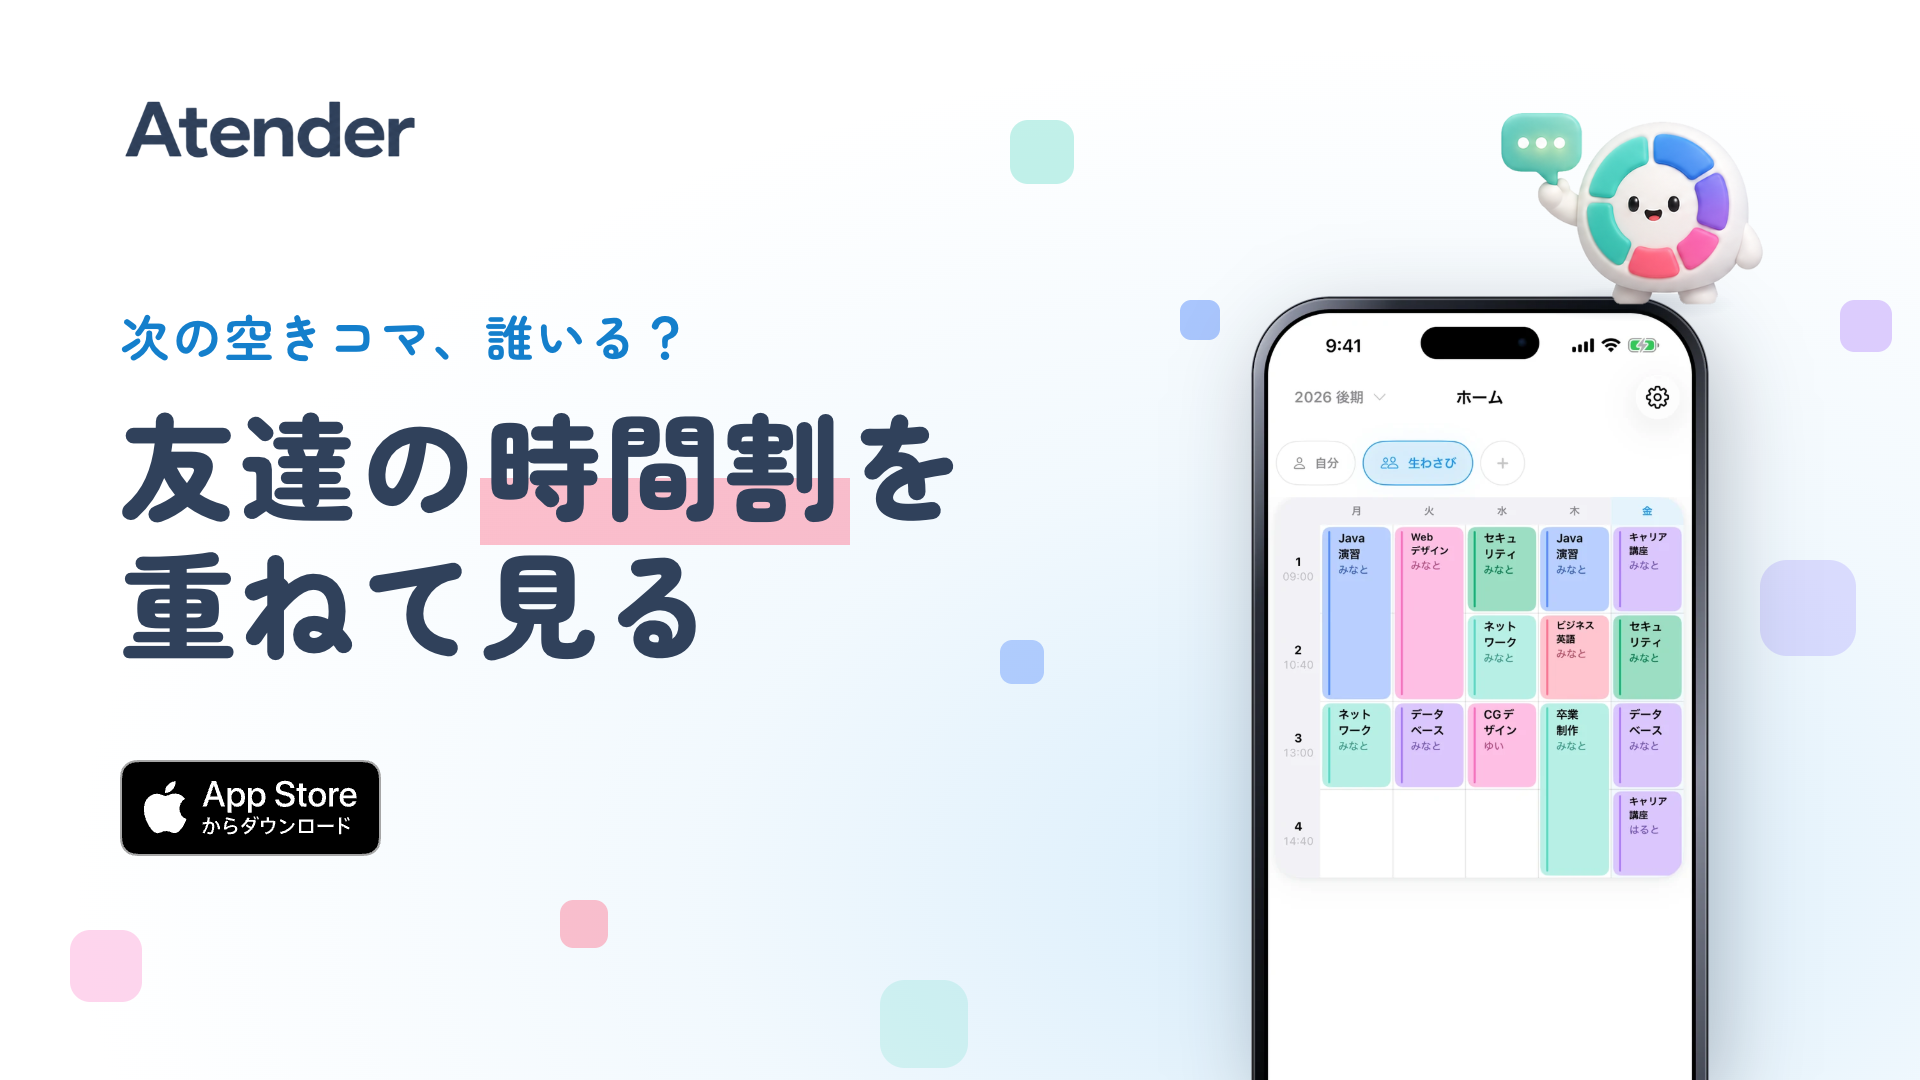
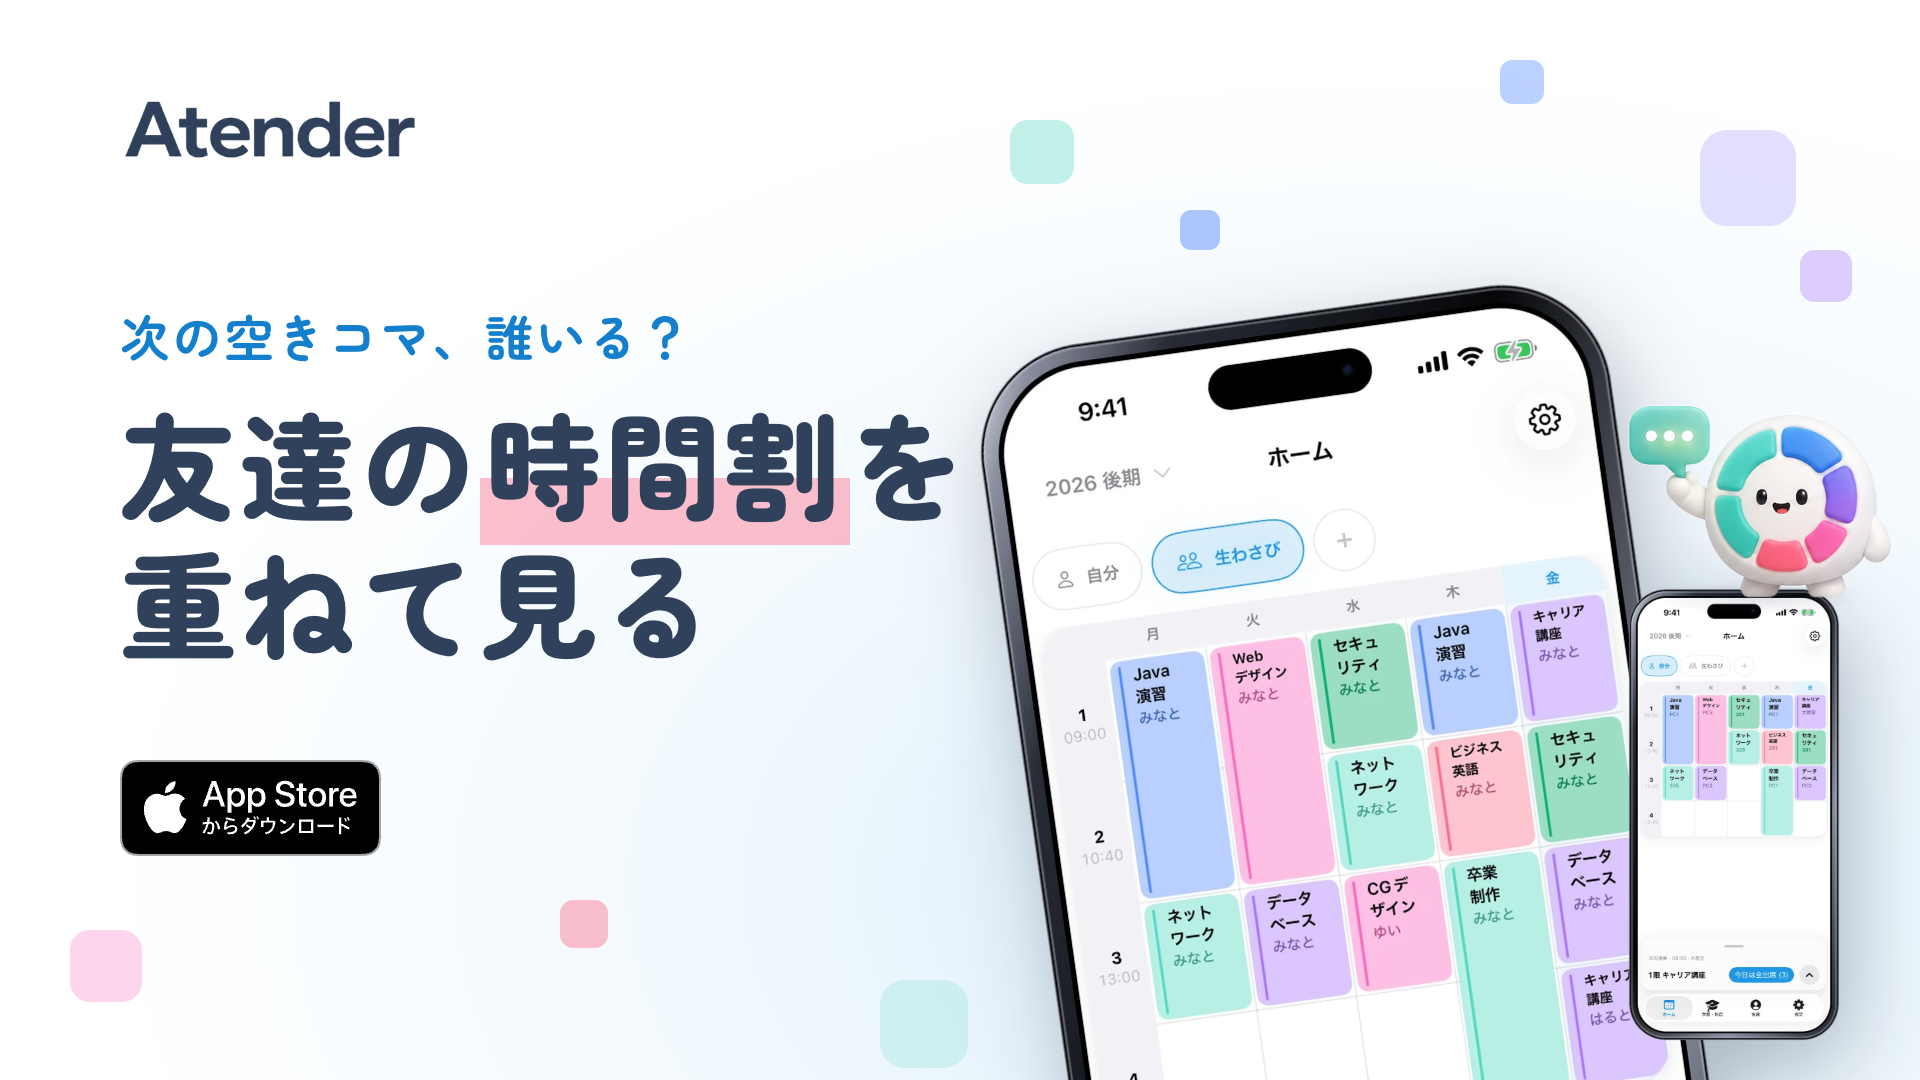
SNS 画像: friends 版を hero と同じ斜め配置にする (大端末 = ルーム rotate -8°、小端末 = 自分のホーム)
Claude-Session: https://claude.ai/code/session_01NbTxgwUdvj38hk2ZKZU4pA

Changed region(s): [[0.5, 0.0306, 1.0, 1.0], [0.5938, 0.1833, 0.6562, 0.2444], [0.5625, 0.3667, 0.5938, 0.3972]]

diff --git a/mocks/social/index.html b/mocks/social/index.html
@@ -28,6 +28,8 @@ h1 { margin: 0; font-size: 116px; line-height: 1.2; font-weight: 900; letter-spa
 em.hl { font-style: normal; background: linear-gradient(transparent 60%, color-mix(in srgb, var(--hl) 45%, transparent) 60%); padding: 0 .04em; }
 .store-badge { position: absolute; left: 120px; top: 760px; height: 96px; width: auto; }
 .phones { position: absolute; right: 80px; bottom: 0; width: 860px; height: auto; z-index: 2; filter: drop-shadow(11px 27px 42px var(--phone-shadow)); }
+.phonepair { position: absolute; inset: 0; z-index: 2; filter: drop-shadow(11px 27px 42px var(--phone-shadow)); }
+.phonepair img { position: absolute; height: auto; }
 .mascot { position: absolute; z-index: 4; height: auto; }
 .mascot-shadow { position: absolute; z-index: 3; border-radius: 50%; background: radial-gradient(ellipse at center, rgba(48, 65, 91, 0.16), rgba(48, 65, 91, 0) 70%); }
 .shape { position: absolute; z-index: 0; width: var(--size); height: var(--size); border-radius: 28%; background: var(--shape-color); opacity: calc(var(--alpha) * var(--shape-alpha-k)); }
@@ -58,14 +60,21 @@ const VARIANTS = {
     shapes: [[1010, 120, 64, .18], [1180, 210, 40, .24], [1700, 130, 96, .12], [1800, 250, 52, .18],
       [70, 930, 72, .14], [560, 900, 48, .22], [880, 980, 88, .10], [1500, 60, 44, .20]]
   },
+  // friends: hero と同じ斜め配置。大端末 = phone-5 (ルーム) を rotate(-8deg)、小端末 = phone-2 (自分のホーム)。
+  // 座標は hero-1920x1080.png の実測値 (ストア .phone.shared / .phone.floating を hero-phones の縮尺 860/2096 = 0.4103 で写した値):
+  //   大端末の本体 (ベゼルの黒縁の内側) = 左上 (966.5, 317.7)・幅 629.8・回転 -8°・原点 = 上辺中央。画像 phone-5 は本体の外に ring 5px ぶん (原寸 8px) 広いので、
+  //   幅 639.4、left 961.7 / top 312.9、原点 (319.7px, 4.8px)。小端末 phone-2 = 左上 (1627.9, 588.1)・幅 212.1 (右下に直立、全体が写る)
   friends: {
     small: '次の空きコマ、誰いる？',
     large: '友達の[時間割]を\n重ねて見る',
     hl: '#FD728E',
-    phones: { src: '../../apps/lp/site/img/phone-5.webp', css: 'right:210px; width:460px' },
-    mascot: { src: '../../apps/lp/site/img/mascot-chat.png', left: 1482, top: 61, width: 300, foot: 0.811 },
-    shapes: [[1010, 120, 64, .18], [1180, 300, 40, .24], [1760, 560, 96, .12], [1840, 300, 52, .18],
-      [70, 930, 72, .14], [560, 900, 48, .22], [880, 980, 88, .10], [1000, 640, 44, .20]]
+    phonePair: [
+      { src: '../../apps/lp/site/img/phone-5.webp', css: 'left:961.7px; top:312.9px; width:639.4px; transform:rotate(-8deg); transform-origin:319.7px 4.8px' },
+      { src: '../../apps/lp/site/img/phone-2.webp', css: 'left:1627.9px; top:588.1px; width:212.1px' }
+    ],
+    mascot: { src: '../../apps/lp/site/img/mascot-chat.png', left: 1610, top: 354, width: 300, foot: 0.811 },
+    shapes: [[1010, 120, 64, .18], [1180, 210, 40, .24], [1700, 130, 96, .12], [1800, 250, 52, .18],
+      [70, 930, 72, .14], [560, 900, 48, .22], [880, 980, 88, .10], [1500, 60, 44, .20]]
   }
 };
 const variant = new URLSearchParams(location.search).get('variant') === 'friends' ? 'friends' : 'hero';
@@ -74,8 +83,22 @@ const { small: SMALL, large: LARGE, shapes: SHAPES } = V;
 const COLORS = ['#56D8C3', '#568CFC', '#8F7EFC', '#A978FA', '#FC6ABF', '#FD728E'];
 document.documentElement.style.setProperty('--hl', V.hl);
 const phonesImg = document.getElementById('phones');
-phonesImg.src = V.phones.src;
-phonesImg.style.cssText = V.phones.css;
+if (V.phones) {
+  phonesImg.src = V.phones.src;
+  phonesImg.style.cssText = V.phones.css;
+} else {
+  phonesImg.remove();
+  const pair = document.createElement('div');
+  pair.className = 'phonepair';
+  V.phonePair.forEach(({ src, css }) => {
+    const img = document.createElement('img');
+    img.src = src;
+    img.alt = '';
+    img.style.cssText = css;
+    pair.append(img);
+  });
+  document.getElementById('canvas').append(pair);
+}
 const mascotImg = document.getElementById('mascot');
 mascotImg.src = V.mascot.src;
 mascotImg.style.left = V.mascot.left + 'px';

diff --git a/mocks/social/README.md b/mocks/social/README.md
@@ -6,6 +6,6 @@ atender ルートで:
 python3 -I mocks/social/extract-phones.py                         # ストア画像 (assets/store/1.0.1) から端末を透過で切り出し → apps/lp/site/img/*.webp
 python3 -I mocks/social/clean-mascot.py                           # マスコット (apps/web/public/character) の足元の地面と影を除去 → apps/lp/site/img/mascot-*.png (影は index.html の CSS で描く)
 python3 -I mocks/store/vendor-fonts.py zenmaru --out apps/lp/site/fonts   # フォントの同梱 (初回のみ)
-bash mocks/social/render.sh                                       # SNS 画像 3 枚 (hero / friends 1920×1080 + OG 1200×630。全てマスコット入り、friends は index.html?variant=friends) → assets/social/1.0.1/ と apps/lp/site/og-1200x630.png (OG は hero の上下 36px を落として縮小)
+bash mocks/social/render.sh                                       # SNS 画像 3 枚 (hero / friends 1920×1080 + OG 1200×630。全てマスコット入り、friends は index.html?variant=friends。hero と同じ斜め配置で、大端末 = ルーム (rotate -8°)・小端末 = 自分のホーム) → assets/social/1.0.1/ と apps/lp/site/og-1200x630.png (OG は hero の上下 36px を落として縮小)
 node mocks/social/lp-shots.mjs [baseUrl]                          # LP のスクショ + 崩れ検査
 ```
